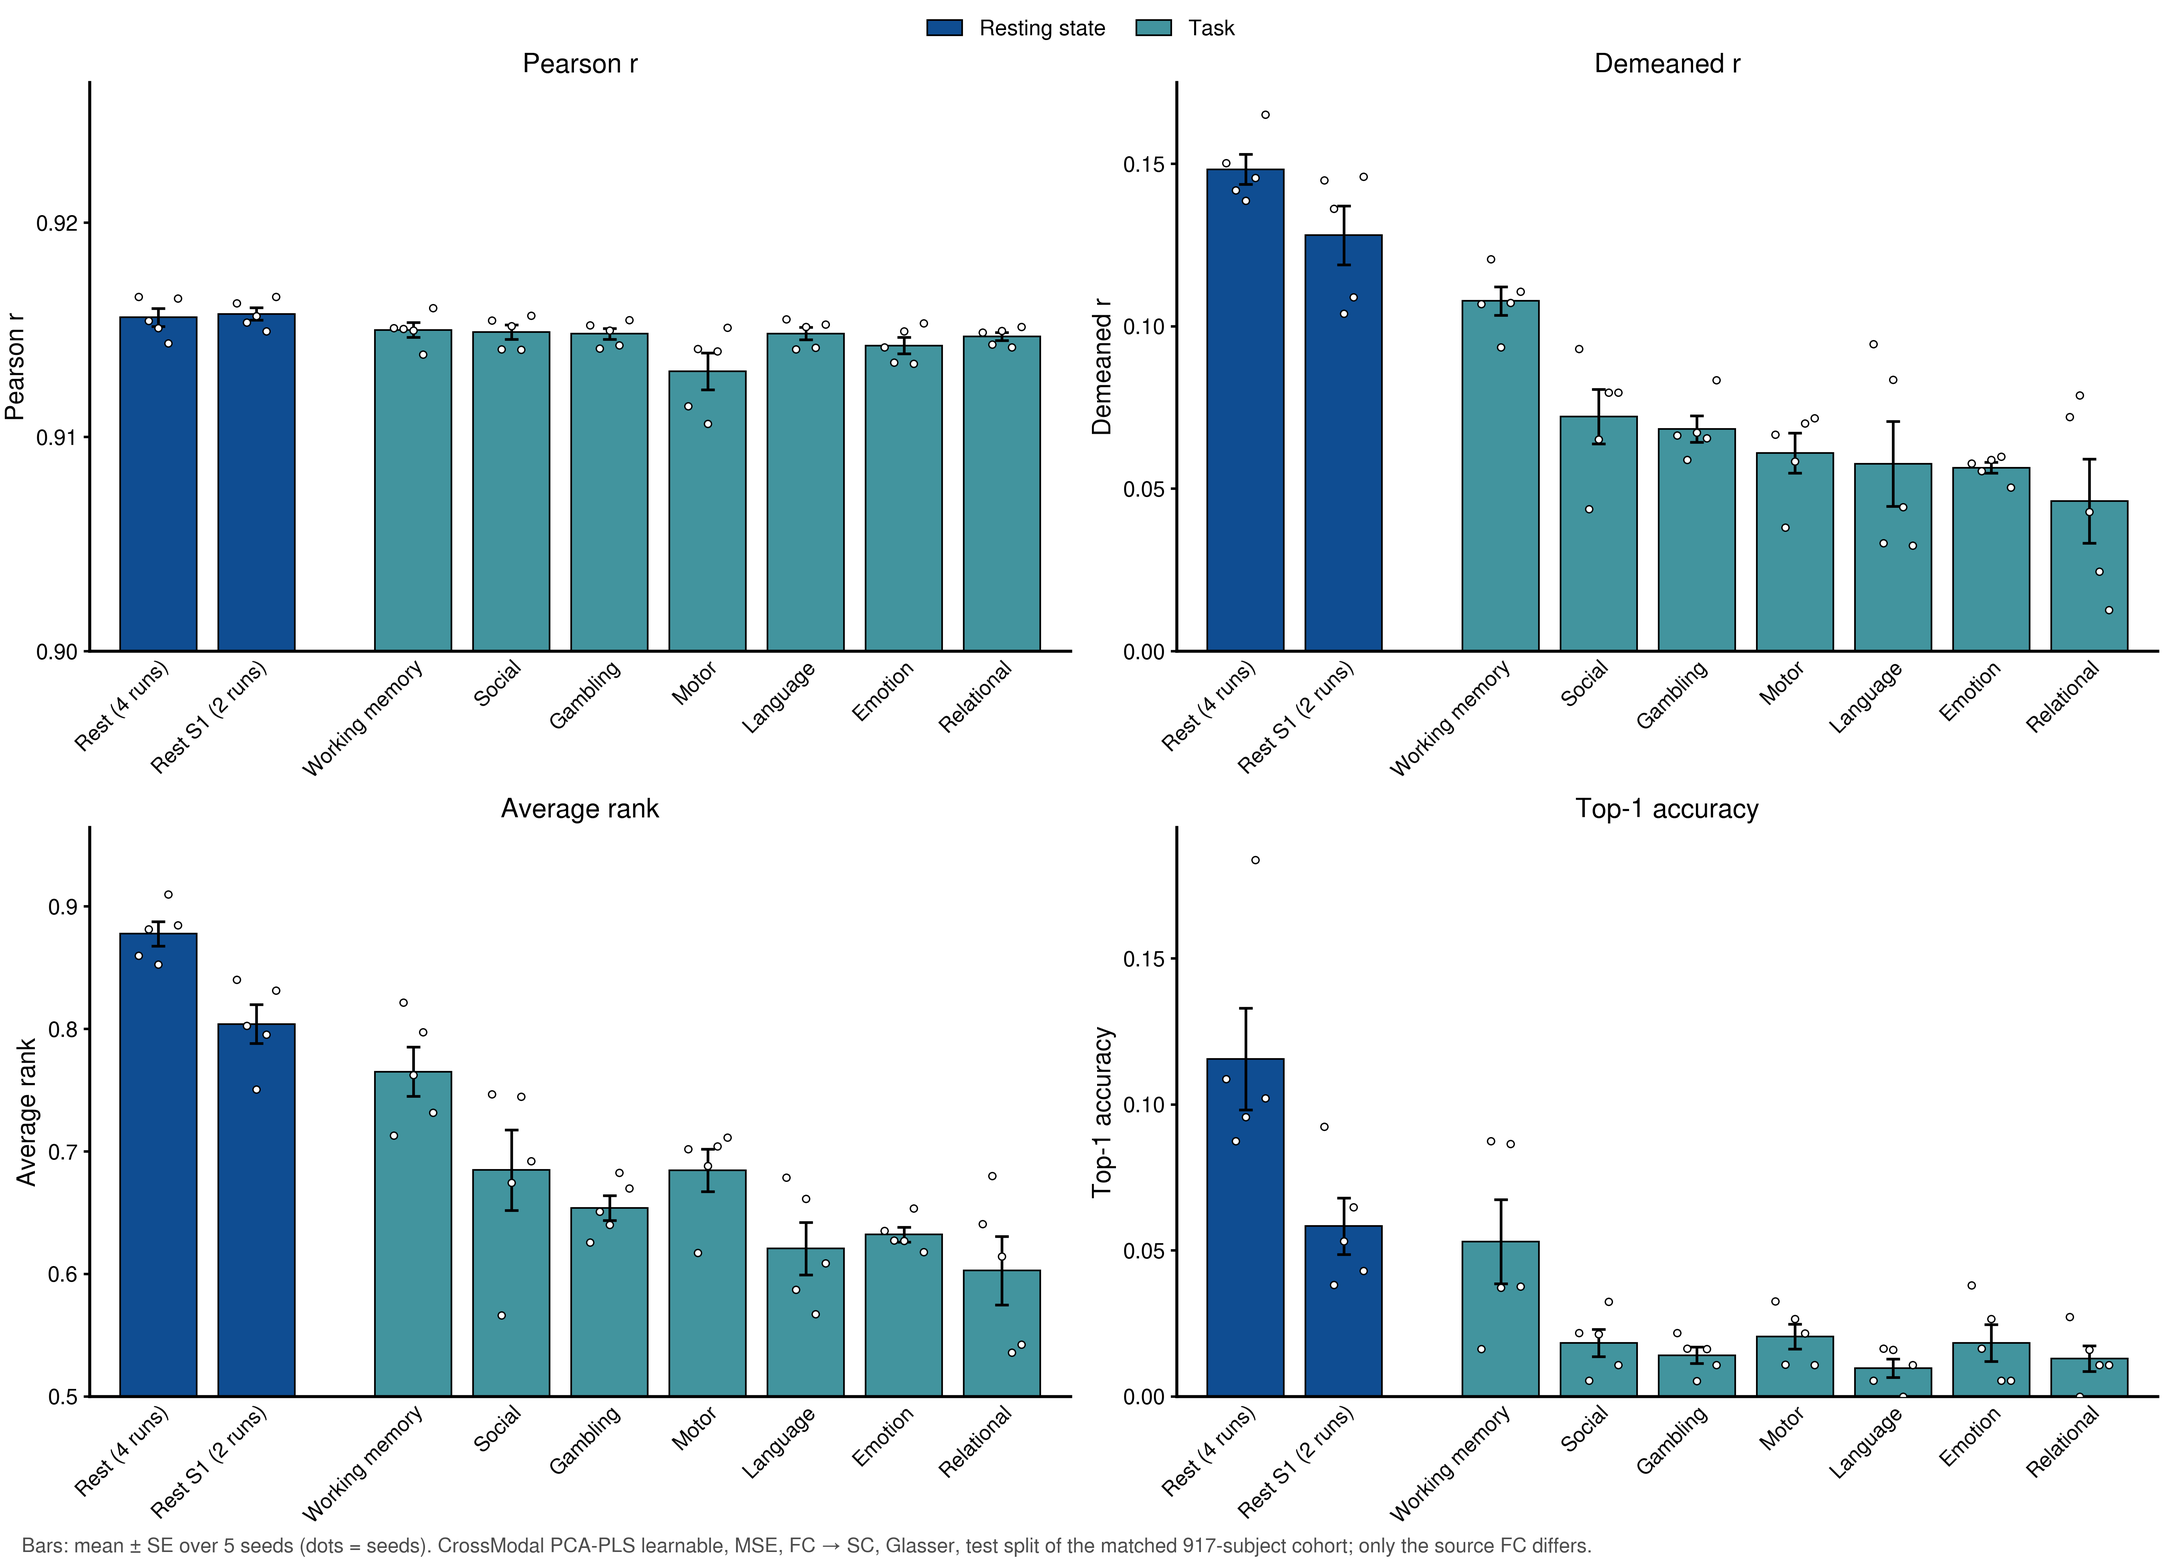
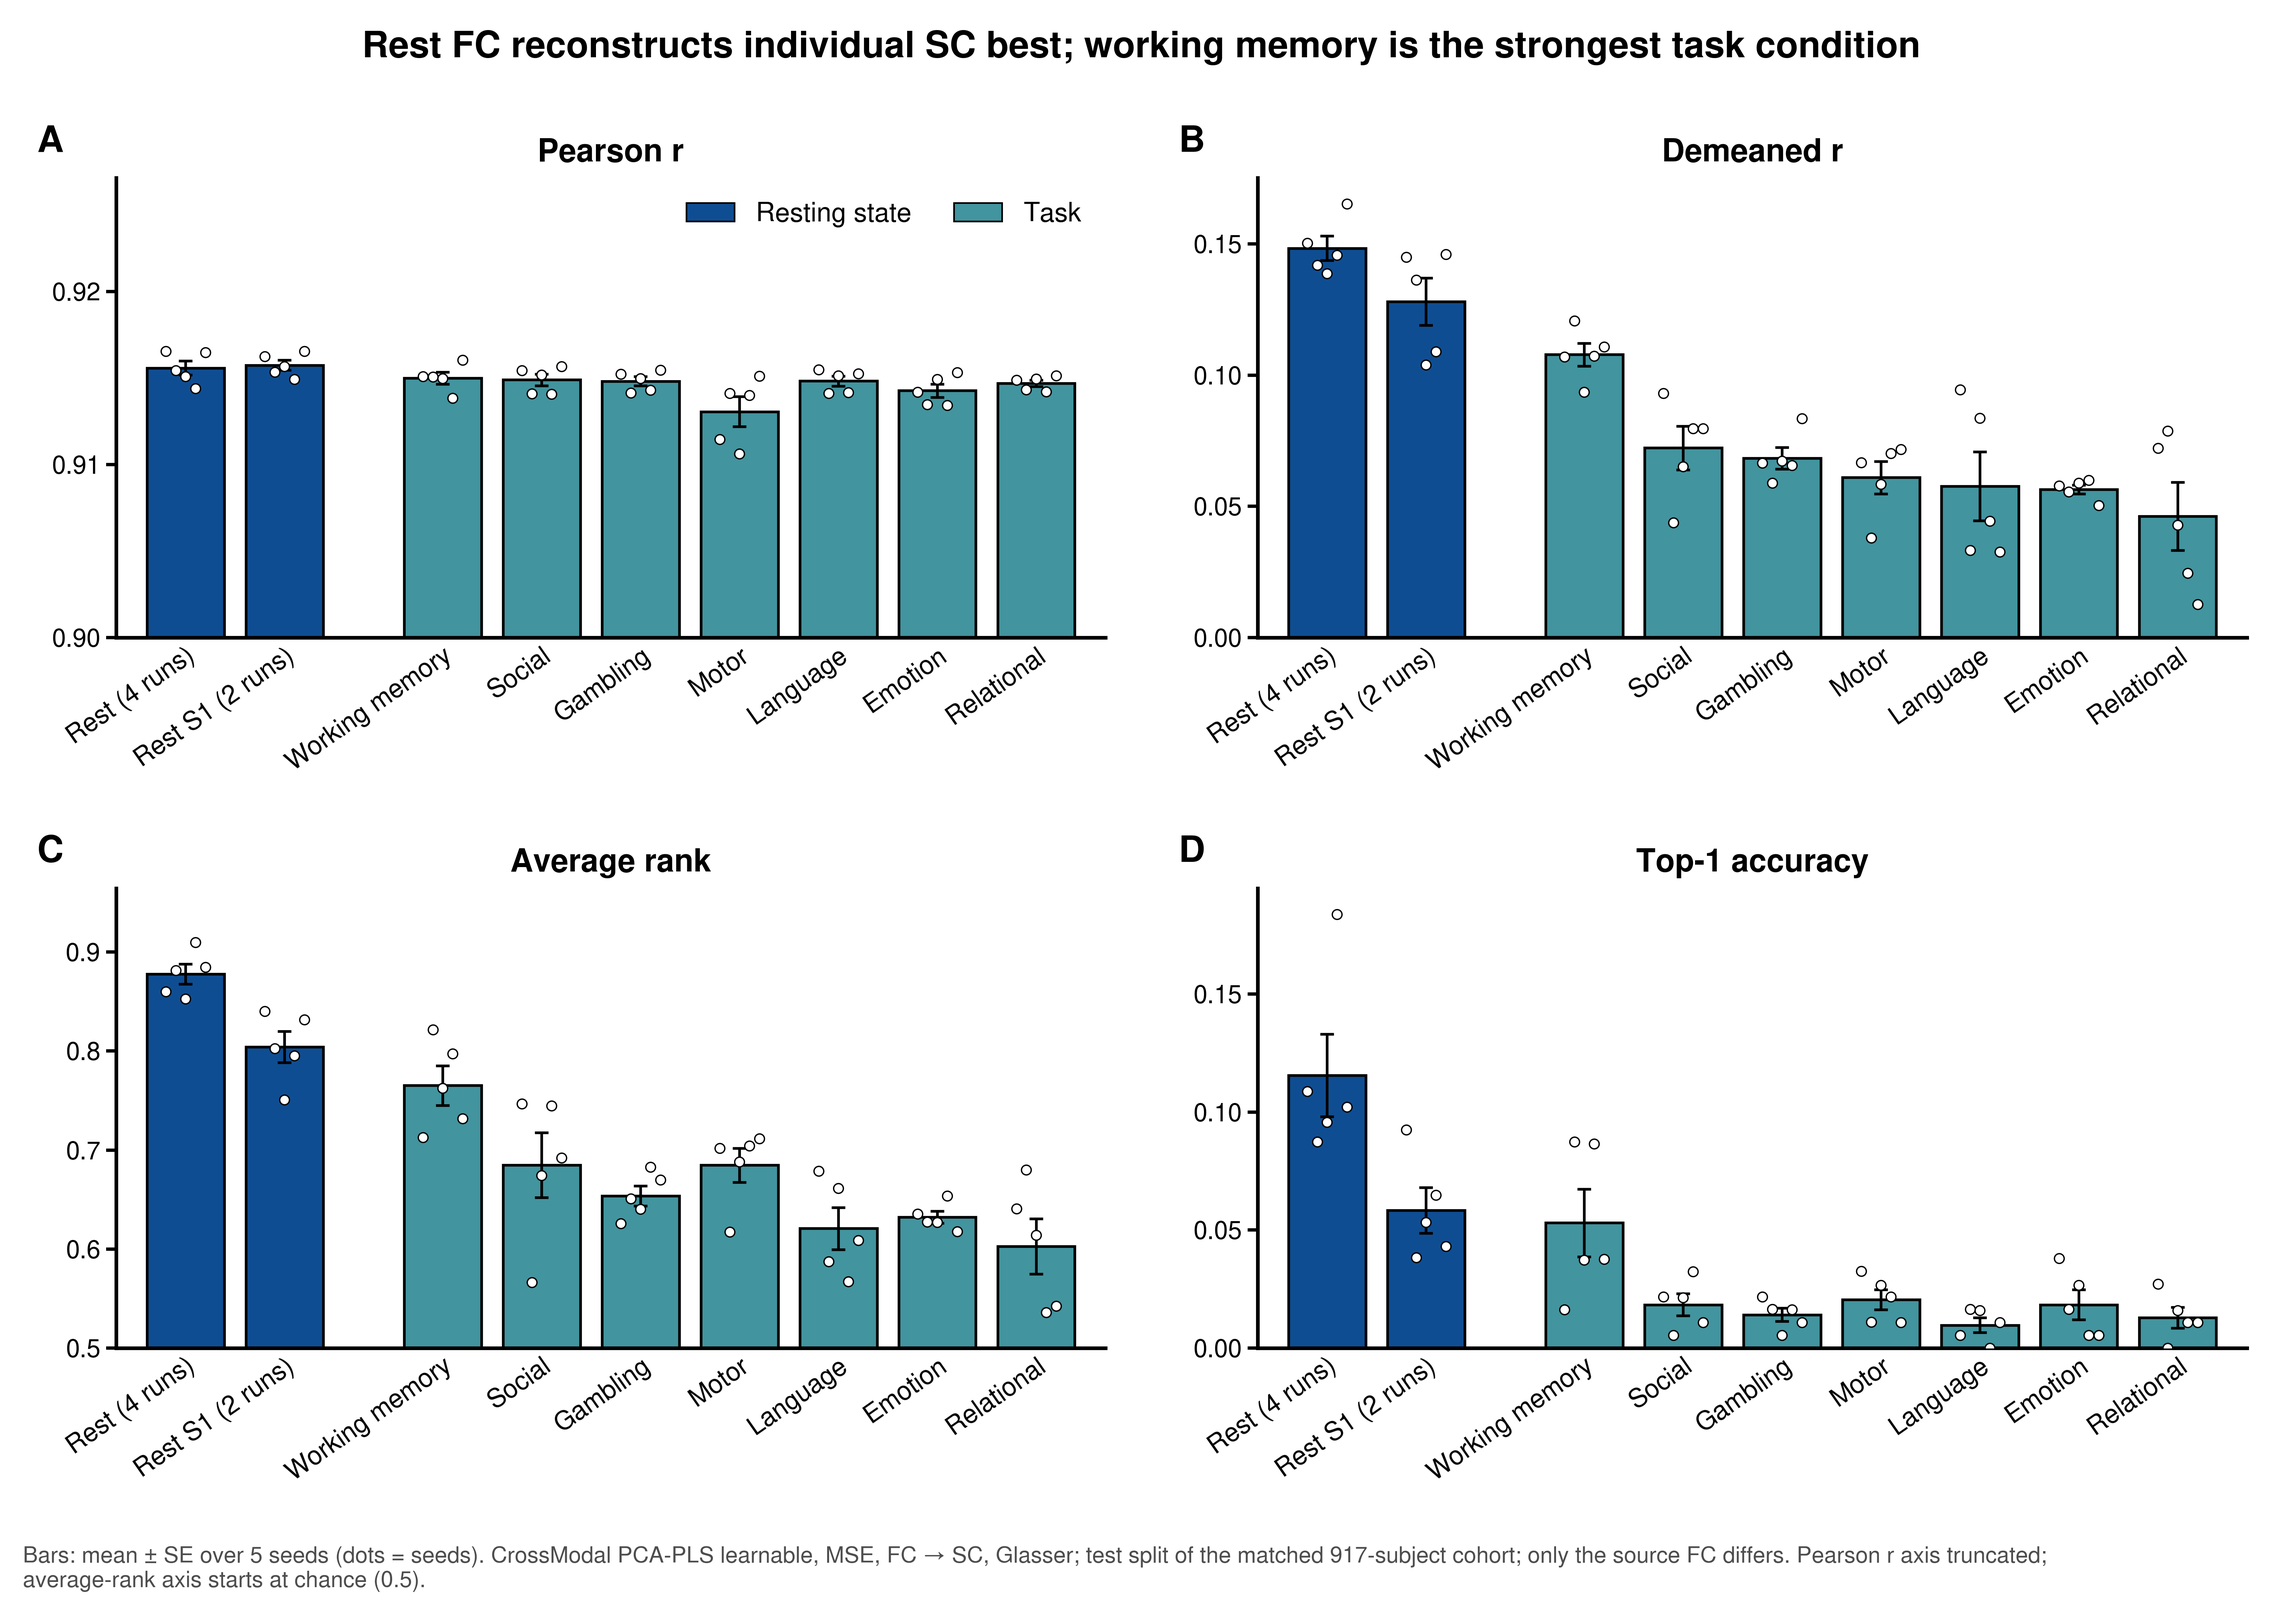
E0 figure: restyled 2x2 summary (finding title, panel letters, larger type, legend in panel A, axis notes in footer); actual compute 13.6 GPU-h

diff --git a/scripts/experiments/task_fc_to_sc/run.py b/scripts/experiments/task_fc_to_sc/run.py
@@ -80,6 +80,47 @@ def md(df, cols, fmt=4):
     return head + body
 
 
+TITLE = "Rest FC reconstructs individual SC best; working memory is the strongest task condition"
+FOOTER = ("Bars: mean ± SE over 5 seeds (dots = seeds). CrossModal PCA-PLS learnable, MSE, FC → SC, Glasser; test split "
+          "of the matched 917-subject cohort; only the source FC differs. Pearson r axis truncated; average-rank axis "
+          "starts at chance (0.5).")
+
+
+def combined_figure(mcfg, summary, seed_df, path):
+    """bars_all_metrics.png in the benchmark 2 x 2 layout, restyled for reading (scientific-figure-making skill:
+    16 pt base, heavier axes and bar edges, panel letters, one legend in panel A, a finding as title, setup in the footer)."""
+    import textwrap
+    import matplotlib
+    matplotlib.use("Agg")
+    import matplotlib.pyplot as plt
+    rc = {**mb.FIG_RC, "font.size": 16, "axes.linewidth": 2.2, "xtick.major.width": 2.0, "ytick.major.width": 2.0,
+          "ytick.major.size": 6}
+    with plt.rc_context(rc):
+        fig, axes = plt.subplots(2, 2, figsize=(19, 13.5), layout="constrained")
+        for letter, ax, metric in zip("ABCD", axes.flat, mcfg["metrics"]):
+            mb.bar_axes(ax, mcfg, summary, seed_df, metric, show_legend=False)
+            for b in ax.patches:
+                b.set_linewidth(1.6)
+            for c in ax.collections:  # seed dots (PathCollection); error bars are LineCollections
+                if hasattr(c, "set_sizes"):
+                    c.set_sizes([34])
+            ax.set_title(mb.METRIC_LABEL[metric], fontsize=19, fontweight="bold", pad=10)
+            ax.set_ylabel("")
+            ax.tick_params(axis="y", labelsize=15, length=6)
+            ax.set_xticklabels([t.get_text() for t in ax.get_xticklabels()], rotation=35, ha="right",
+                               rotation_mode="anchor", fontsize=15.5)
+            ax.text(-0.08, 1.04, letter, transform=ax.transAxes, fontsize=22, fontweight="bold", va="bottom")
+        groups, _ = mb._order(mcfg, summary)
+        fig.suptitle(TITLE, fontsize=22, fontweight="bold")
+        # one legend, in panel A's empty headroom (a figure-level legend collides with the suptitle)
+        axes.flat[0].legend(handles=mb._legend_handles(mcfg, groups), loc="upper right", ncol=2, fontsize=16,
+                            handlelength=1.8, columnspacing=1.6, frameon=False)
+        fig.get_layout_engine().set(h_pad=0.25, w_pad=0.3)
+        fig.supxlabel("\n".join(textwrap.wrap(FOOTER, width=200)), fontsize=13.5, color="#4D4D4D", ha="left", x=0.01)
+        fig.savefig(path, dpi=300, facecolor="white")
+        plt.close(fig)
+
+
 def main():
     ap = argparse.ArgumentParser(description=__doc__, formatter_class=argparse.RawDescriptionHelpFormatter)
     ap.add_argument("--allow-partial", action="store_true", help="draw even if some condition x seed cells are missing")
@@ -115,6 +156,7 @@ def main():
     mb._figure_note = lambda *_: ("Bars: mean ± SE over 5 seeds (dots = seeds). CrossModal PCA-PLS learnable, MSE, FC → SC, "
                                   "Glasser, test split of the matched 917-subject cohort; only the source FC differs.")
     written = mb.figures(mcfg, summary, seed_df, out / "figures", cfg["direction"])
+    combined_figure(mcfg, summary, seed_df, out / "figures" / "bars_all_metrics.png")
     print("wrote", out / "tables", "and", [str(out / "figures" / w) for w in written])
 
 

diff --git a/scripts/experiments/task_fc_to_sc/task_fc_to_sc.md b/scripts/experiments/task_fc_to_sc/task_fc_to_sc.md
@@ -4,7 +4,7 @@
 `launch.sh` / `submit.py` (one array per condition, index = seed; `--repo` runs from a worktree), `run.py` (scrape,
 tables, figures), `checks/check_fc_source_condition.py` (cohort, splits, rebinding, PCA mean). Data: `HCP_Base(fc_source_condition=...)`.
 **Tables (tracked):** `results/tables/{seed_records,summary,runs,paired_vs_rest}.csv`, `summary.md`.
-**Figures:** `results/figures/bars_{pearson,demeaned_pearson,avg_rank,top1_acc}.png`, `bars_all_metrics.png`.
+**Figures:** `results/figures/bars_{pearson,demeaned_pearson,avg_rank,top1_acc}.png`; `bars_all_metrics.png` (2 × 2 summary figure, E0-specific styling in `run.py`).
 **Runs:** logs `results/logs/e0_taskfc_<condition>_<job>_<seed>.out` (main checkout); pilot jobs `19251071` (rest),
 `19251073` (wm), full run `19253190`–`19253201`; check job `19248618` (ALL_OK).
 **Status:** complete 2026-10-06 · spec v3 E0 · branch `e0-task-fc`
@@ -25,7 +25,7 @@ demeaned r, average rank and top-1?
 | Target | SC (default metric, log1p), Glasser |
 | Cohort / splits | subjects with every condition: 917 of 957; per-seed `train_val_test` labels restricted to it (seed 0: 659 / 74 / 184); seeds 0–4, identical across conditions |
 | Comparison | test split; Δ = paired-by-seed difference from `rest`, ± SE over 5 seeds |
-| Compute | 45 tasks, ≈ 15 min each on 1 GPU (4 trials packed) ≈ 11 GPU-h |
+| Compute | 45 tasks on 1 GPU each (4 trials packed), median 17 min (13–30): 13.6 GPU-h; ≈ 10.5 h wall clock (group GPU quota allowed 1–2 tasks at once) |
 
 Every run loads all conditions, so the cohort and splits are the same; `fc_source_condition` rebinds the FC arrays
 before the train-split PCA, so the source PCA basis is fit on that condition.

diff --git a/context_packages/repo_spec_docs/spec_doc_v3.md b/context_packages/repo_spec_docs/spec_doc_v3.md
@@ -100,7 +100,7 @@ source.
 - **Caveat:** scan length differs by condition (rest ≈ 4 × 14.4 min vs tasks ≈ 2 × 2–5 min), so condition is
   confounded with data quantity.
 - **Results** ([`task_fc_to_sc.md`](../../scripts/experiments/task_fc_to_sc/task_fc_to_sc.md); jobs `19251071`,
-  `19251073`, `19253190`–`19253201`; test, 5 seeds): rest is best on every individual-level metric (demeaned r 0.148,
+  `19251073`, `19253190`–`19253201`; 13.6 GPU-h; test, 5 seeds): rest is best on every individual-level metric (demeaned r 0.148,
   avg rank 0.878, top-1 0.116); every task is below it (Δ demeaned r −0.04 to −0.10). Working memory is the best task
   (0.108 / 0.765 / 0.053; ahead of every other task on 5/5 seeds); the other six sit at 0.046–0.072 demeaned r and
   top-1 ≈ 0.01–0.02. Rest S1 costs 0.020 demeaned r and half of top-1, so scan length explains much of the ordering
